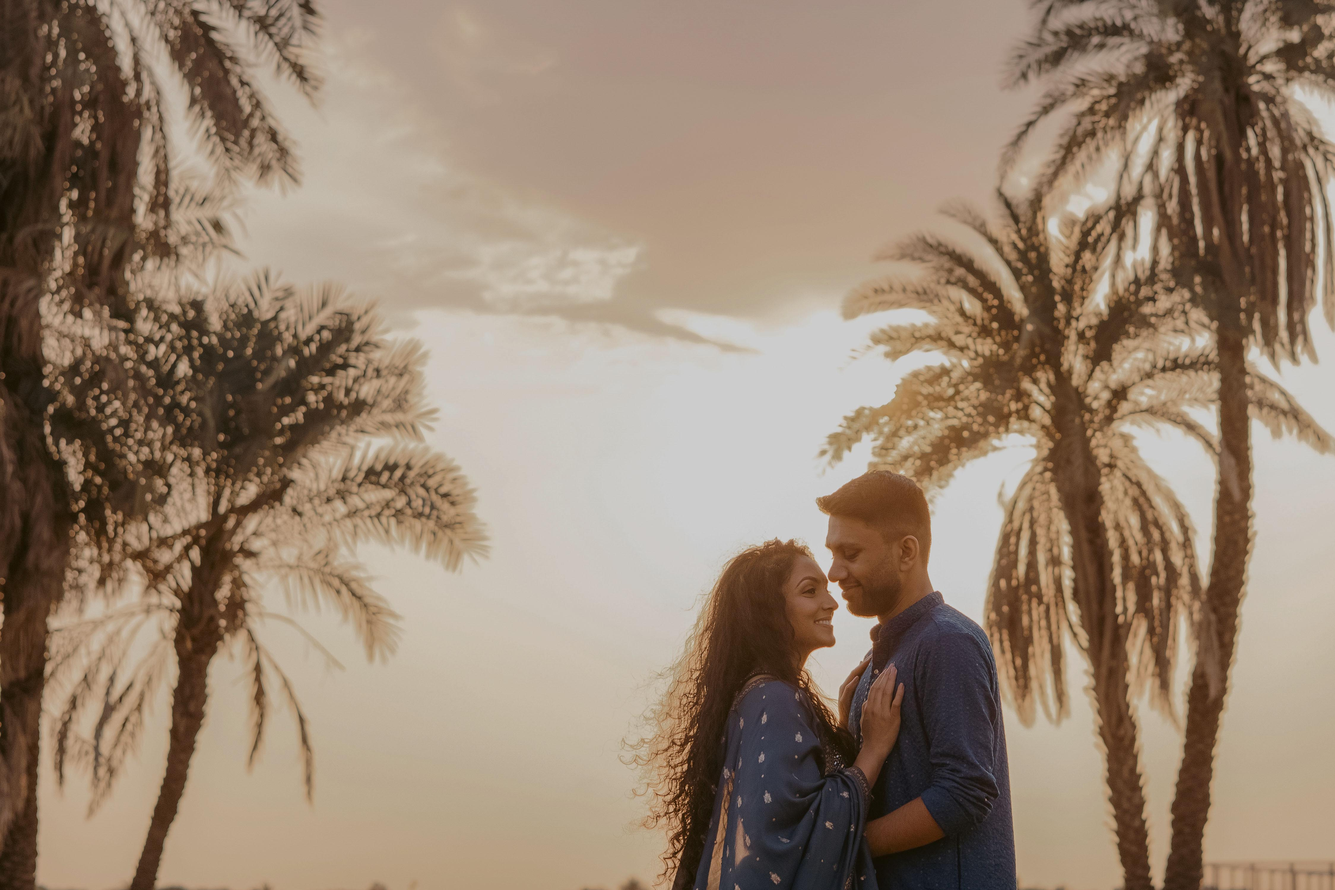
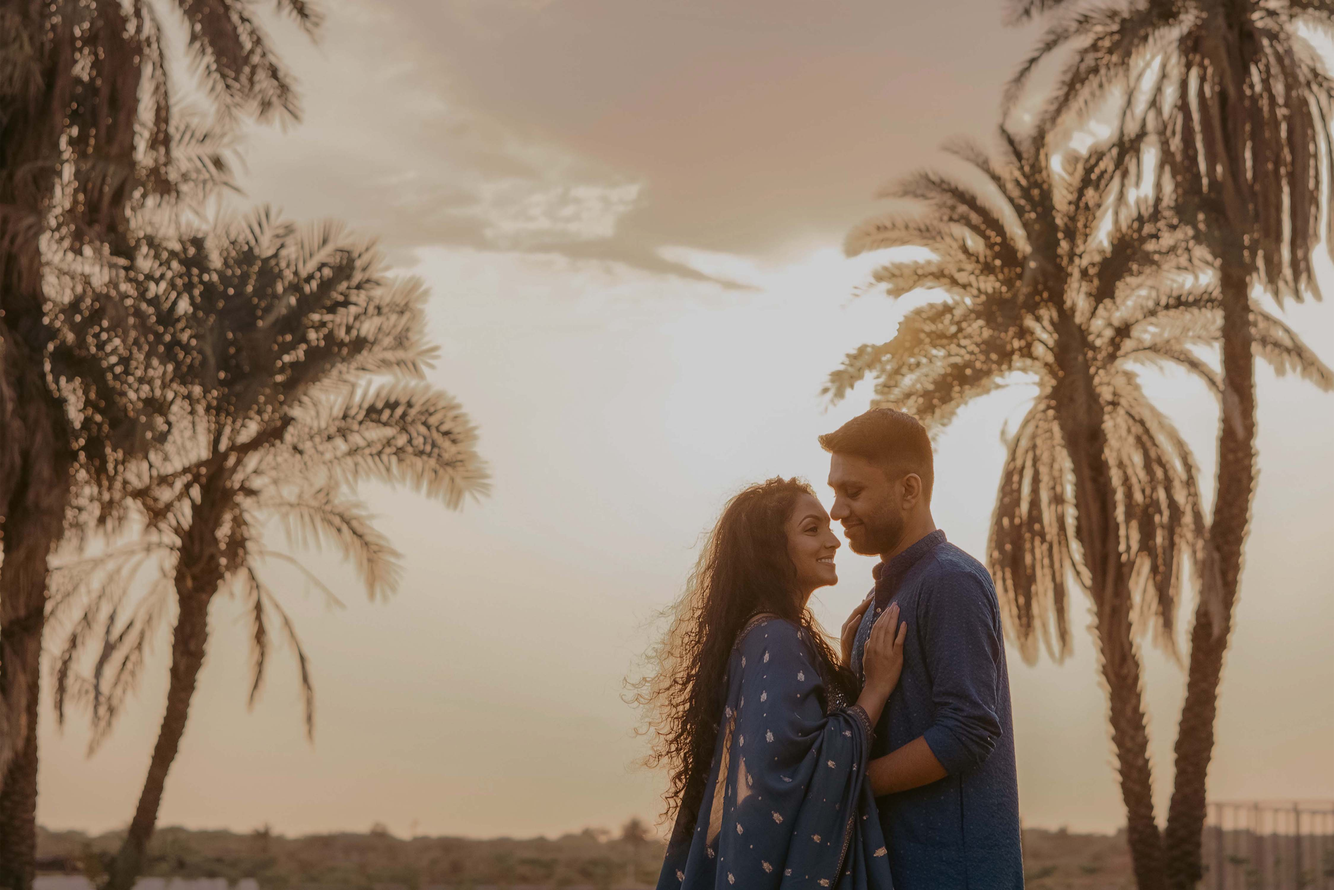
Photo Desktop View Update

diff --git a/src/pages/Home.js b/src/pages/Home.js
@@ -38,13 +38,13 @@ const Footer = () => {
 const Home = () => {
   const [currentImageIndex, setCurrentImageIndex] = useState(0);
   const imagePositions = [
-    { url: window.innerWidth >= 650 ? VS1Image : VS1MImage, position: 'bottom'},
-    { url: window.innerWidth >= 650 ? VS2Image : VS2MImage, position: 'bottom' },
-    { url: window.innerWidth >= 650 ? VS3Image : VS6MImage, position: 'bottom' },
-    { url: window.innerWidth >= 650 ? VS4Image : VS4MImage, position: 'bottom' },
-    { url: window.innerWidth >= 650 ? VS5Image : VS5MImage, position: 'bottom' },
-    { url: window.innerWidth >= 650 ? VS6Image : VS3MImage, position: 'bottom' },
-    { url: window.innerWidth >= 650 ? VS7Image : VS7MImage, position: 'bottom' },
+    { url: window.innerWidth >= 650 ? VS1Image : VS1MImage, position: 'center'},
+    { url: window.innerWidth >= 650 ? VS2Image : VS2MImage, position: 'center' },
+    { url: window.innerWidth >= 650 ? VS3Image : VS6MImage, position: 'center' },
+    { url: window.innerWidth >= 650 ? VS4Image : VS4MImage, position: 'center' },
+    { url: window.innerWidth >= 650 ? VS5Image : VS5MImage, position: 'center' },
+    { url: window.innerWidth >= 650 ? VS6Image : VS3MImage, position: 'center' },
+    { url: window.innerWidth >= 650 ? VS7Image : VS7MImage, position: 'center' },
    
   ];
  
